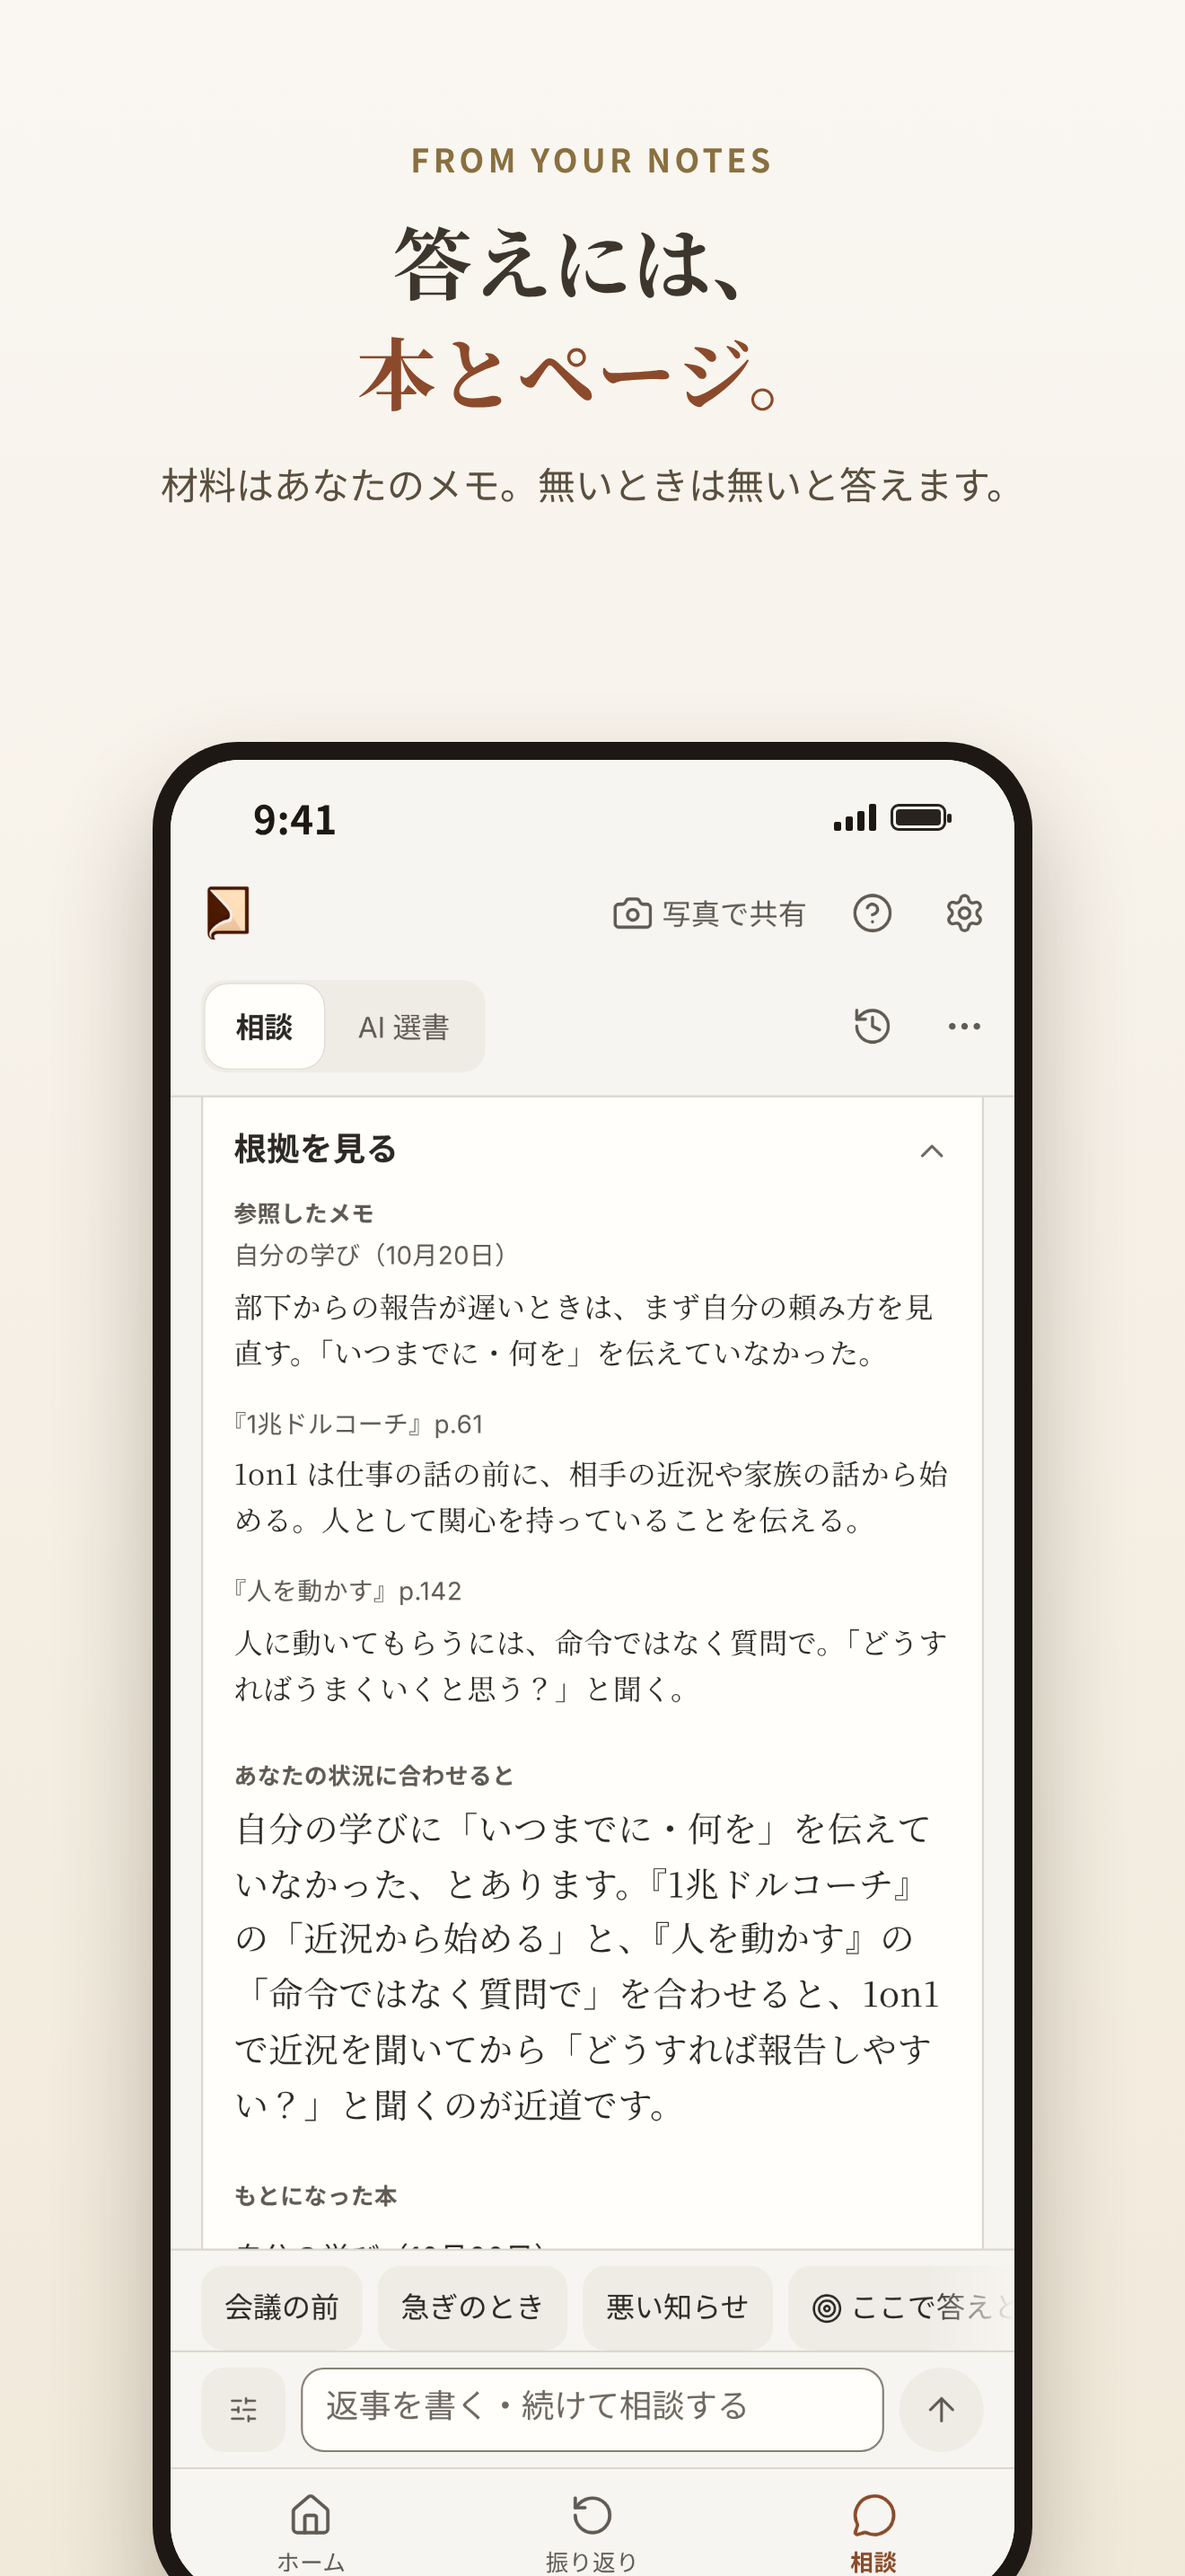
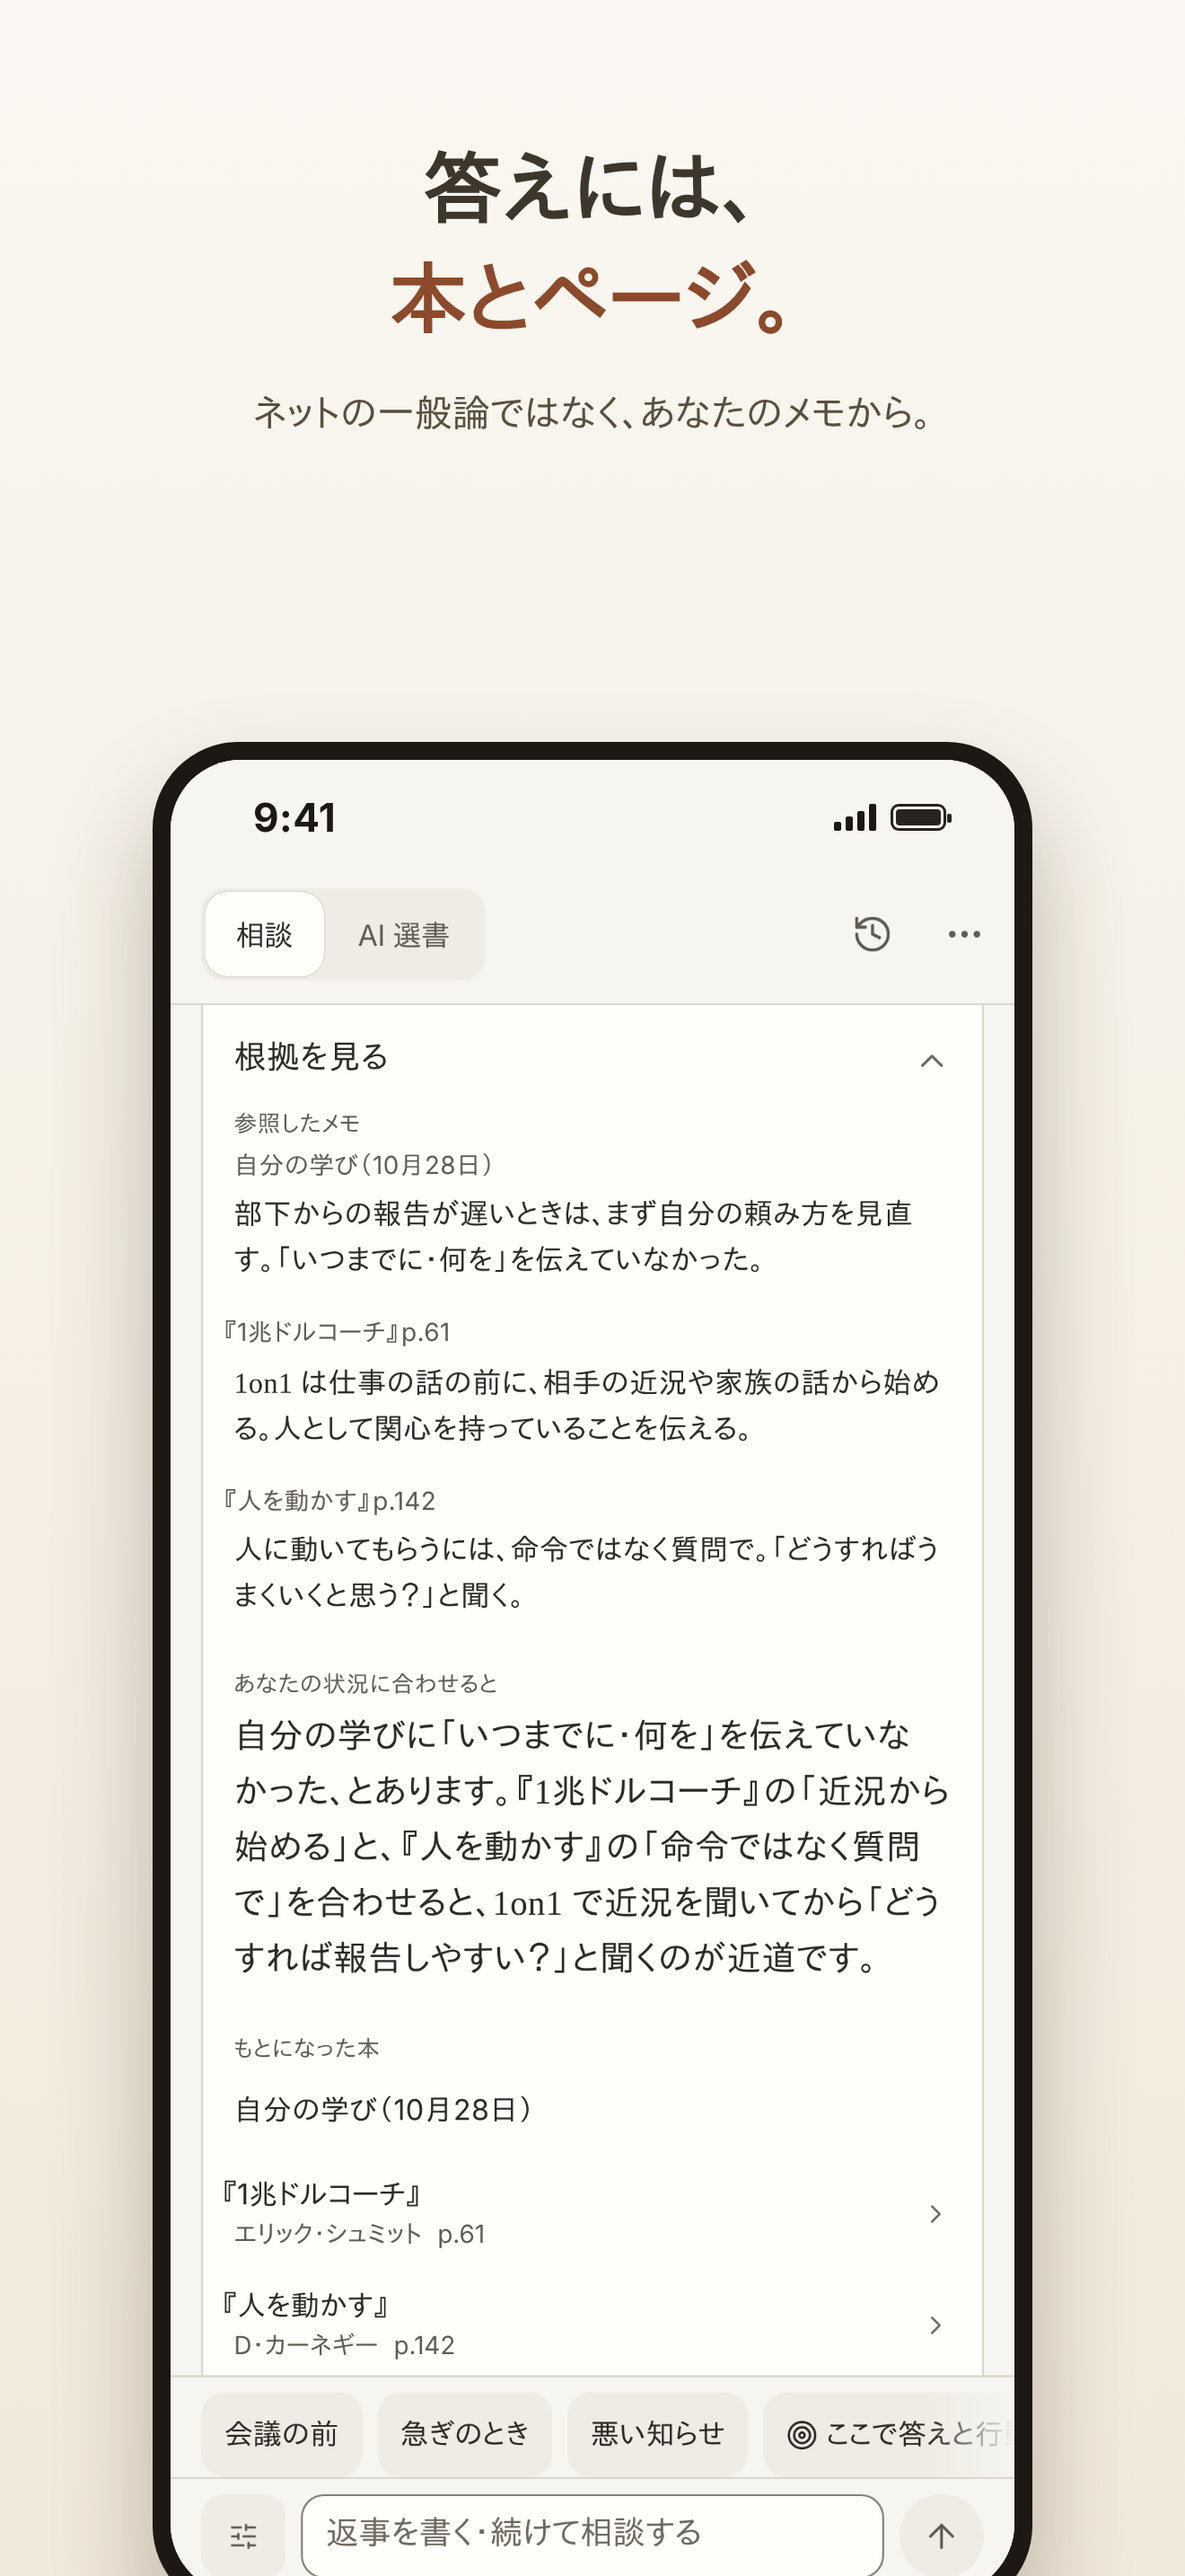
docs: App Store の画像を書き出し直し（新しい並び・古い名前の画像を消す）・答えの下の「（」が前の字に重ならないように
Claude-Session: https://claude.ai/code/session_01CJtCb5D8mXkG5XEeRMX4M7

diff --git a/src/components/MyBookBrain.jsx b/src/components/MyBookBrain.jsx
@@ -3869,14 +3869,14 @@ function ChatMessage({ message, onOpenBook, stage, slow = false, books, actions 
       </span>
       <span style={{ minWidth: 0 }}>
         {/* 文節の切れ目でだけ折り返す（「いちば／ん古いのは」のように語の途中で割らない・2026-10-02 ui-critic）。 */}
-        {/* 「（…）」は別の塊に（その前で折り返せる）・「（」は左の空き（半字）を詰める＝行の頭に来ても字下げに見えない（2026-10-10 ui-critic）。 */}
+        {/* 「（…）」は別の塊に（その前で折り返せる）・「（」は字の幅を半分に（halt）＝行の頭でも字下げに見えず、行の途中でも前の字に重ならない（前は -0.5em で「た」に重なっていた・2026-11-17 点検）。 */}
         {evidence && (() => {
           const i = evidence.indexOf('（');
           if (i <= 0) return <span style={{ display: 'block', wordBreak: 'keep-all', overflowWrap: 'anywhere' }}>{withPhraseBreaks(evidence)}</span>;
           return (
             <span style={{ display: 'block', wordBreak: 'keep-all', overflowWrap: 'anywhere' }}>
               {withPhraseBreaks(evidence.slice(0, i))}<wbr />
-              <span style={{ marginLeft: '-0.5em' }}>（</span>{withPhraseBreaks(evidence.slice(i + 1))}
+              <span style={{ fontFeatureSettings: '"halt"' }}>（</span>{withPhraseBreaks(evidence.slice(i + 1))}
             </span>
           );
         })()}

diff --git a/company/aso-store-listing.md b/company/aso-store-listing.md
@@ -65,11 +65,11 @@
 | 1 | 1 冊に相談した答え（名前の行「（本の語り口で・AI）」が見える）。読了の『イシューからはじめよ』→「この本に相談する」 | **読んだ本と、会話しよう。**／心に響いた一行から、AI が本の語り口で答えます。 | `base-1-consult`（2026-10-29 に撮り直した・『嫌われる勇気』の語り口・著者名は隠す）（前の値: **新しく撮る**（いまの `base-1-consult` は「すべての本」の答え。撮るまでは見出しだけ差し替えて使う） |
 | 2 | 根拠を見る（本とページのメモ） | **答えには、本とページ。**／材料はあなたのメモ。無いときは無いと答えます。 | `base-2-evidence` |
 | 3 | 「ここで答えと行動を」→ 明日の一歩＋「行動に追加」 | **会話の最後は、明日の一歩。**／行動リストに、期限つきで。 | `base-3-action` |
-| 4 | 集中モード（`/?focus=timer`・暗い地） | **時間を決めて、本だけに。**／表紙と時間だけの画面で読む。読んだ時間は記録に。 | `base-4-focus`（2026-10-29） |
-| 5 | 写真で共有の「雑誌」 | **心に残った一文を、1 枚に。**／雑誌の 1 ページのような画像で発信。 | `base-5-share`（2026-10-29 に雑誌で撮り直した） |
-| 6 | 振り返り › 記録の「分野」（まだ本がない分野のチップが見える） | **自分の読書を、分野で見る。**／まだ本がない分野も、ひと目で。 | `base-6-fields`（2026-10-29） |
+| 4 | 集中モード（`/?focus=timer`・暗い地） | **時間を決めて、本だけに。**／表紙と時間だけの画面で読む。読んだ時間は記録に。 | `base-5-focus`（2026-10-29） |
+| 5 | 写真で共有の「雑誌」 | **心に残った一文を、1 枚に。**／雑誌の 1 ページのような画像で発信。 | `base-7-share`（2026-10-29 に雑誌で撮り直した） |
+| 6 | 振り返り › 記録の「分野」（まだ本がない分野のチップが見える） | **自分の読書を、分野で見る。**／まだ本がない分野も、ひと目で。 | `base-8-fields`（2026-10-29） |
 
-- 取り込み・撮るは CPP ③ と 7・8 枚目（任意）＝`base-7-import`・`base-8-photo`（2026-10-29）。
+- 取り込み・撮るは CPP ③ と 7・8 枚目（任意）＝`base-9-import`・`base-10-photo`（2026-10-29）。
 - 作り直し：生成器 `company/appstore-screenshots/index.html` の `SETS.base` の見出しを上の表に差し替え、`company/launch-2026-11/README.md` の「作り直し方」で書き出す（担当 Claude・`calendar.md` の 10/19 の週）。
 - **価格はスクショに入れない**（創業メンバー価格の期間は年額に 7 日間無料が付かないので誤解を招く・審査 2.3.7）。
 - 1 枚目の本の語り口の画面は、書名が見えても著者の名前は見出しに入れない。答えの最後の「AI が…まねた答えです」が入る範囲で切れないときは、名前の行「（本の語り口で・AI）」が必ず入るように切る。

diff --git a/company/launch-2026-11/README.md b/company/launch-2026-11/README.md
@@ -41,7 +41,7 @@
 
 ## App Store の画像（`screenshots/`）
 
-- 見出しと並びの正は `../aso-store-listing.md` §8（6 枚＝5 つの柱の順）・§8-2（CPP ①本と会話する ②習慣にする ③乗り換え・撮る）。**2026-10-29 に作り直した**: `screenshots/` の `base-1〜6` が §8 の 6 枚（本の語り口・根拠・一歩・集中モード・雑誌・分野）、`base-7-import`・`base-8-photo` が任意の 7・8 枚目、`cpp-habit-1〜3` が CPP ②（4〜6 枚目は base-1〜3 を使う）、`cpp-import-*`・`cpp-photo-*`・`cpp-ask-*` は CPP ③①。見出しは `appstore-screenshots/index.html` の `SETS`。
+- 見出しと並びの正は `../aso-store-listing.md` §8（6 枚＝5 つの柱の順）・§8-2（CPP ①本と会話する ②習慣にする ③乗り換え・撮る）。**2026-10-29 に作り直した**: `screenshots/` の `base-1〜6` が §8 の 6 枚（本の語り口・根拠・一歩・集中モード・雑誌・分野）、`base-9-import`・`base-10-photo` が任意の 7・8 枚目、`cpp-habit-1〜3` が CPP ②（4〜6 枚目は base-1〜3 を使う）、`cpp-import-*`・`cpp-photo-*`・`cpp-ask-*` は CPP ③①。見出しは `appstore-screenshots/index.html` の `SETS`。
 - ファイル名：`<名前>-6.9in-1320x2868.png`・`<名前>-6.5in-1284x2778.png`。価格はどの画像にも入れない。
 
 ### 作り直し方（画面を変えたら）
